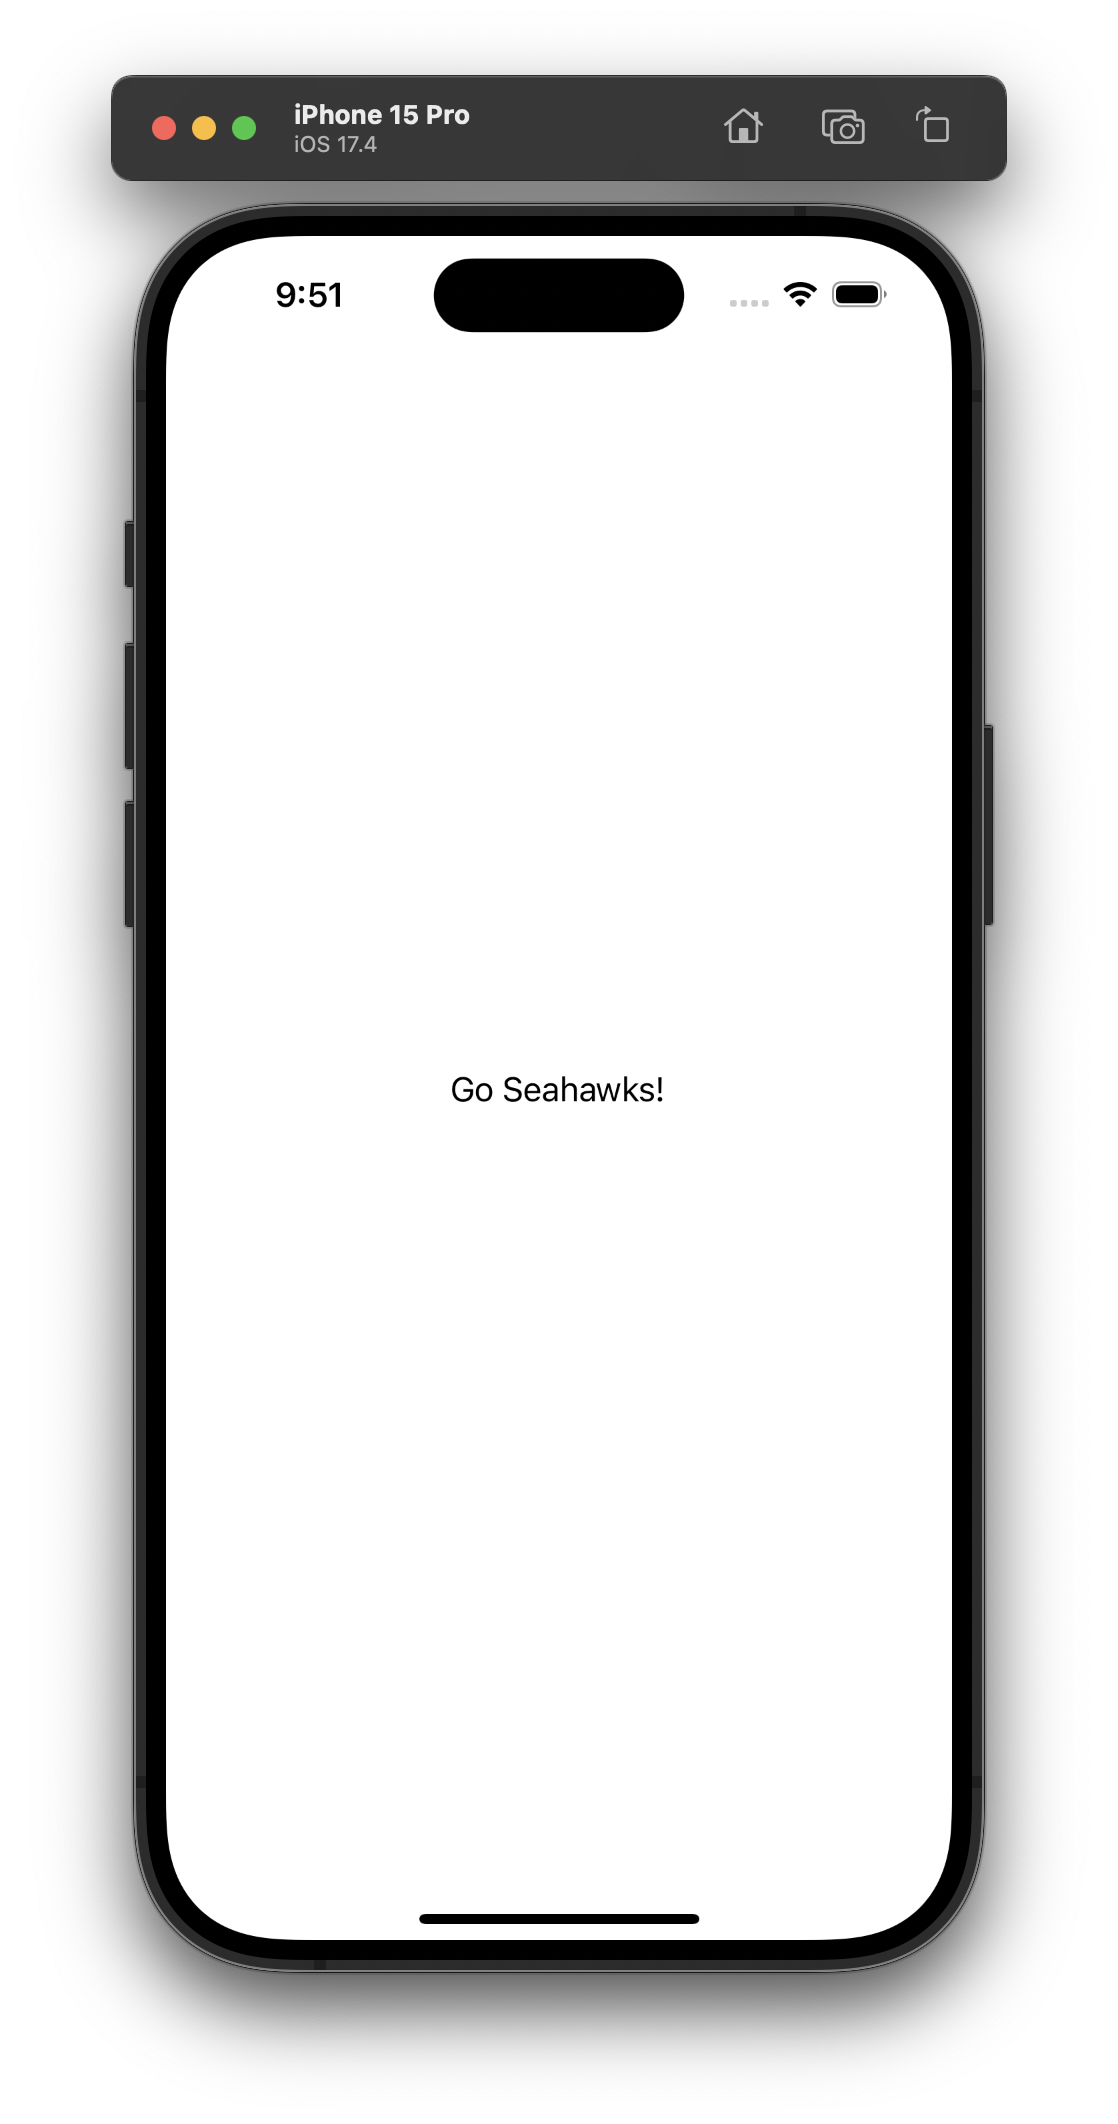
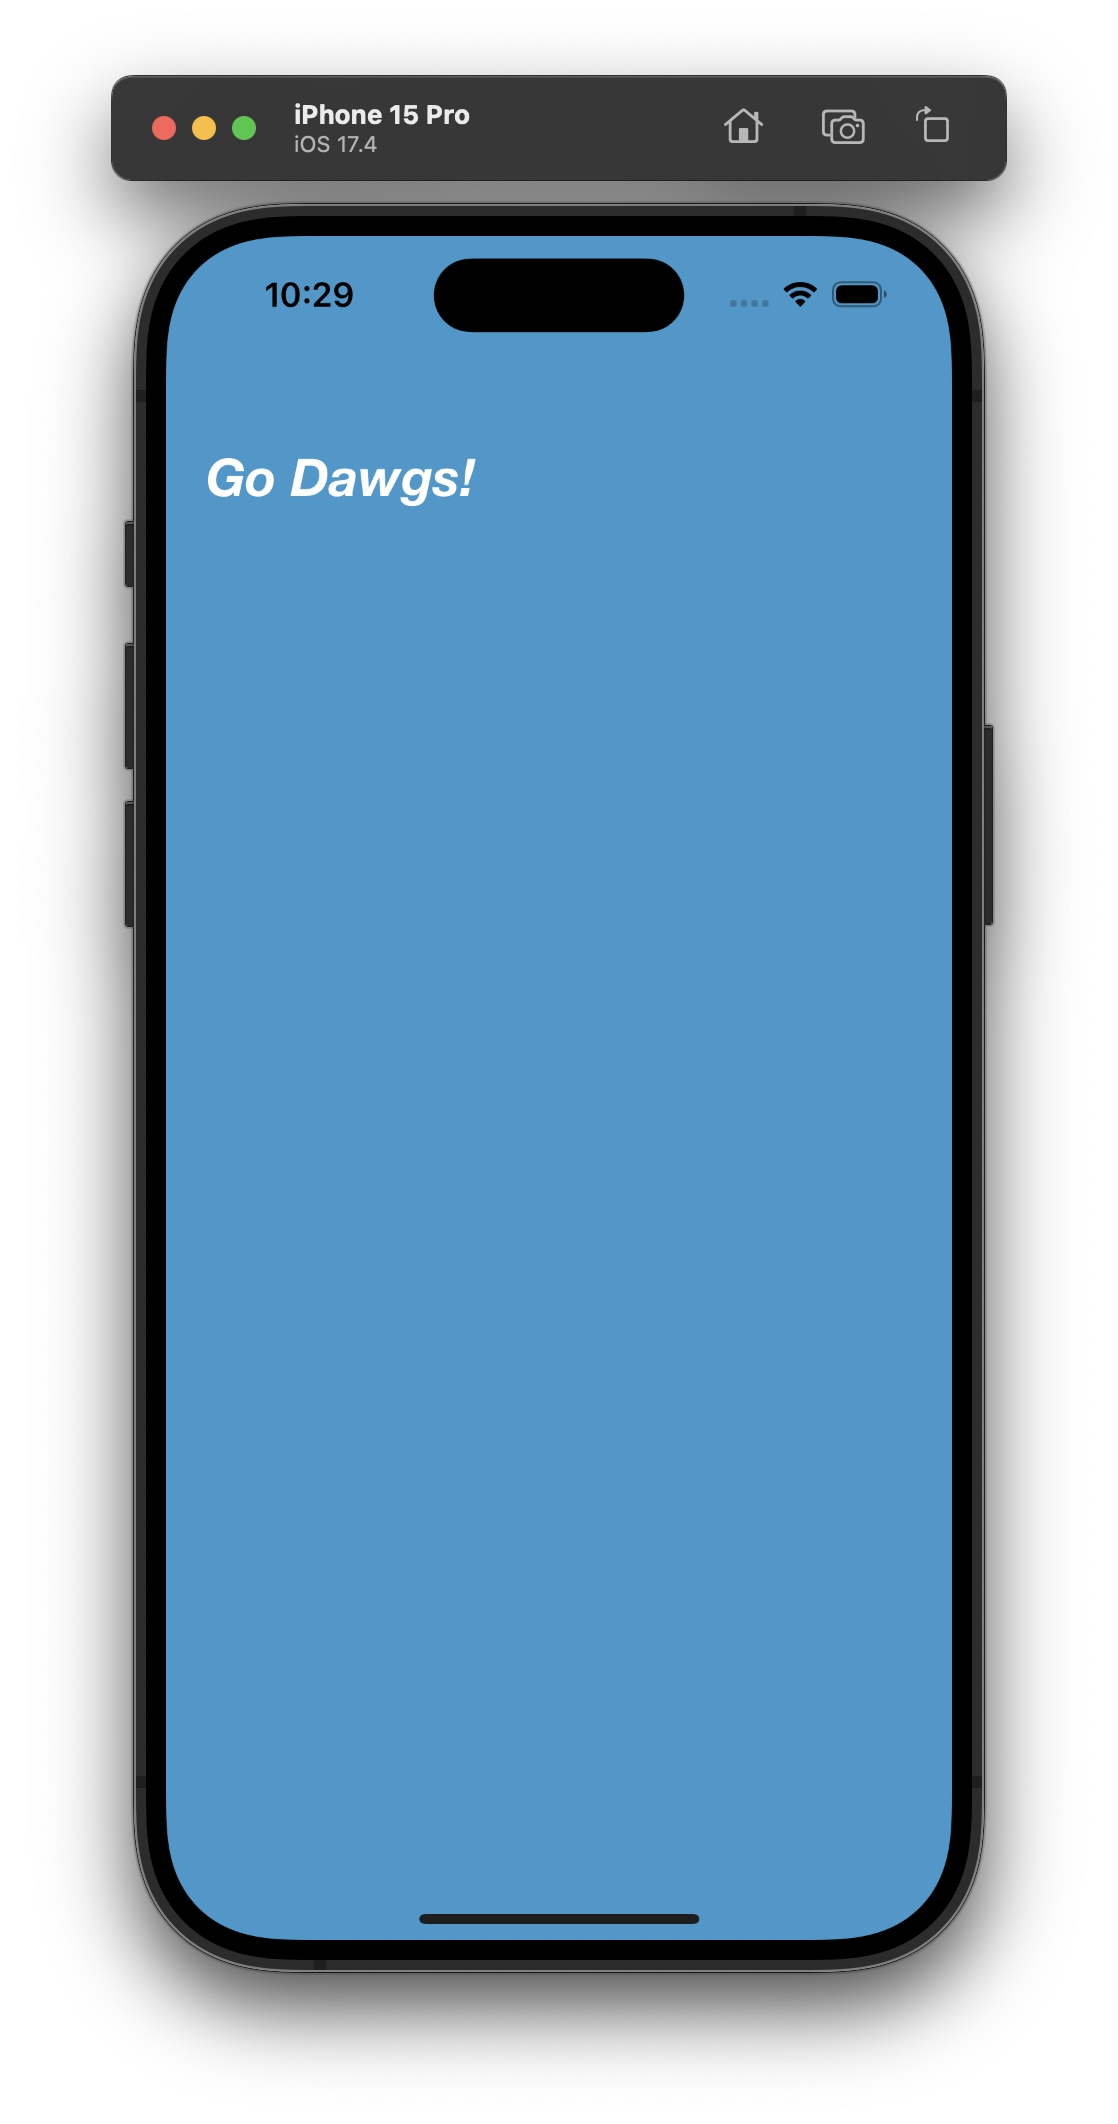
home & emulator

diff --git a/helloios/ViewController.swift b/helloios/ViewController.swift
@@ -11,7 +11,15 @@ class ViewController: UIViewController {
 
     override func viewDidLoad() {
         super.viewDidLoad()
-        // Do any additional setup after loading the view.
+        
+        self.view.backgroundColor = UIColor(red: 0.2, green: 0.6, blue: 0.8, alpha: 1.0)
+        
+        let dawgLabel = UILabel()
+        dawgLabel.text = "Go Dawgs!"
+        dawgLabel.frame = CGRect(x: 20, y: 100, width: 300, height: 40)
+        dawgLabel.font = UIFont(name: "HelveticaNeue-BoldItalic", size: 26)
+        dawgLabel.textColor = UIColor.white
+        self.view.addSubview(dawgLabel)
     }
 
 
